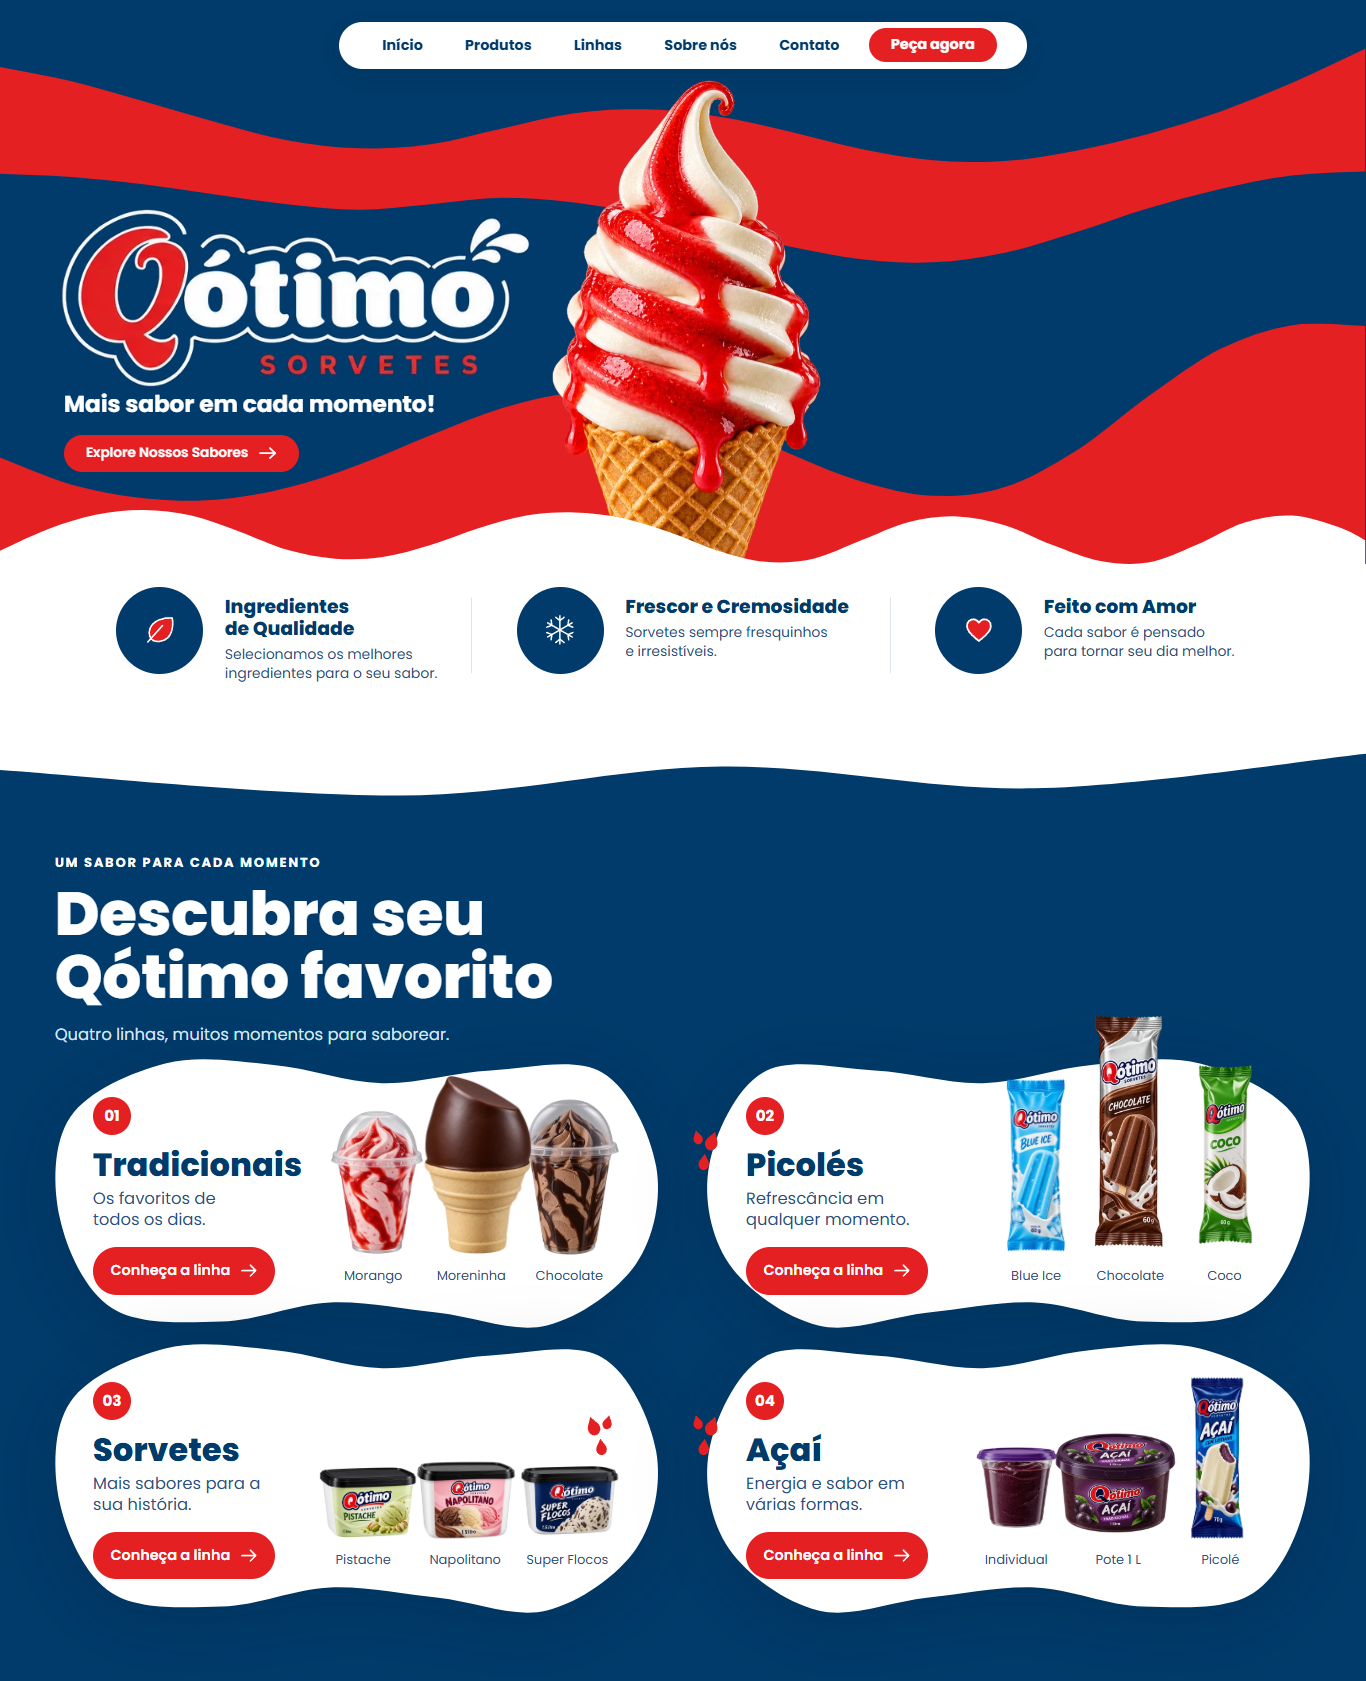
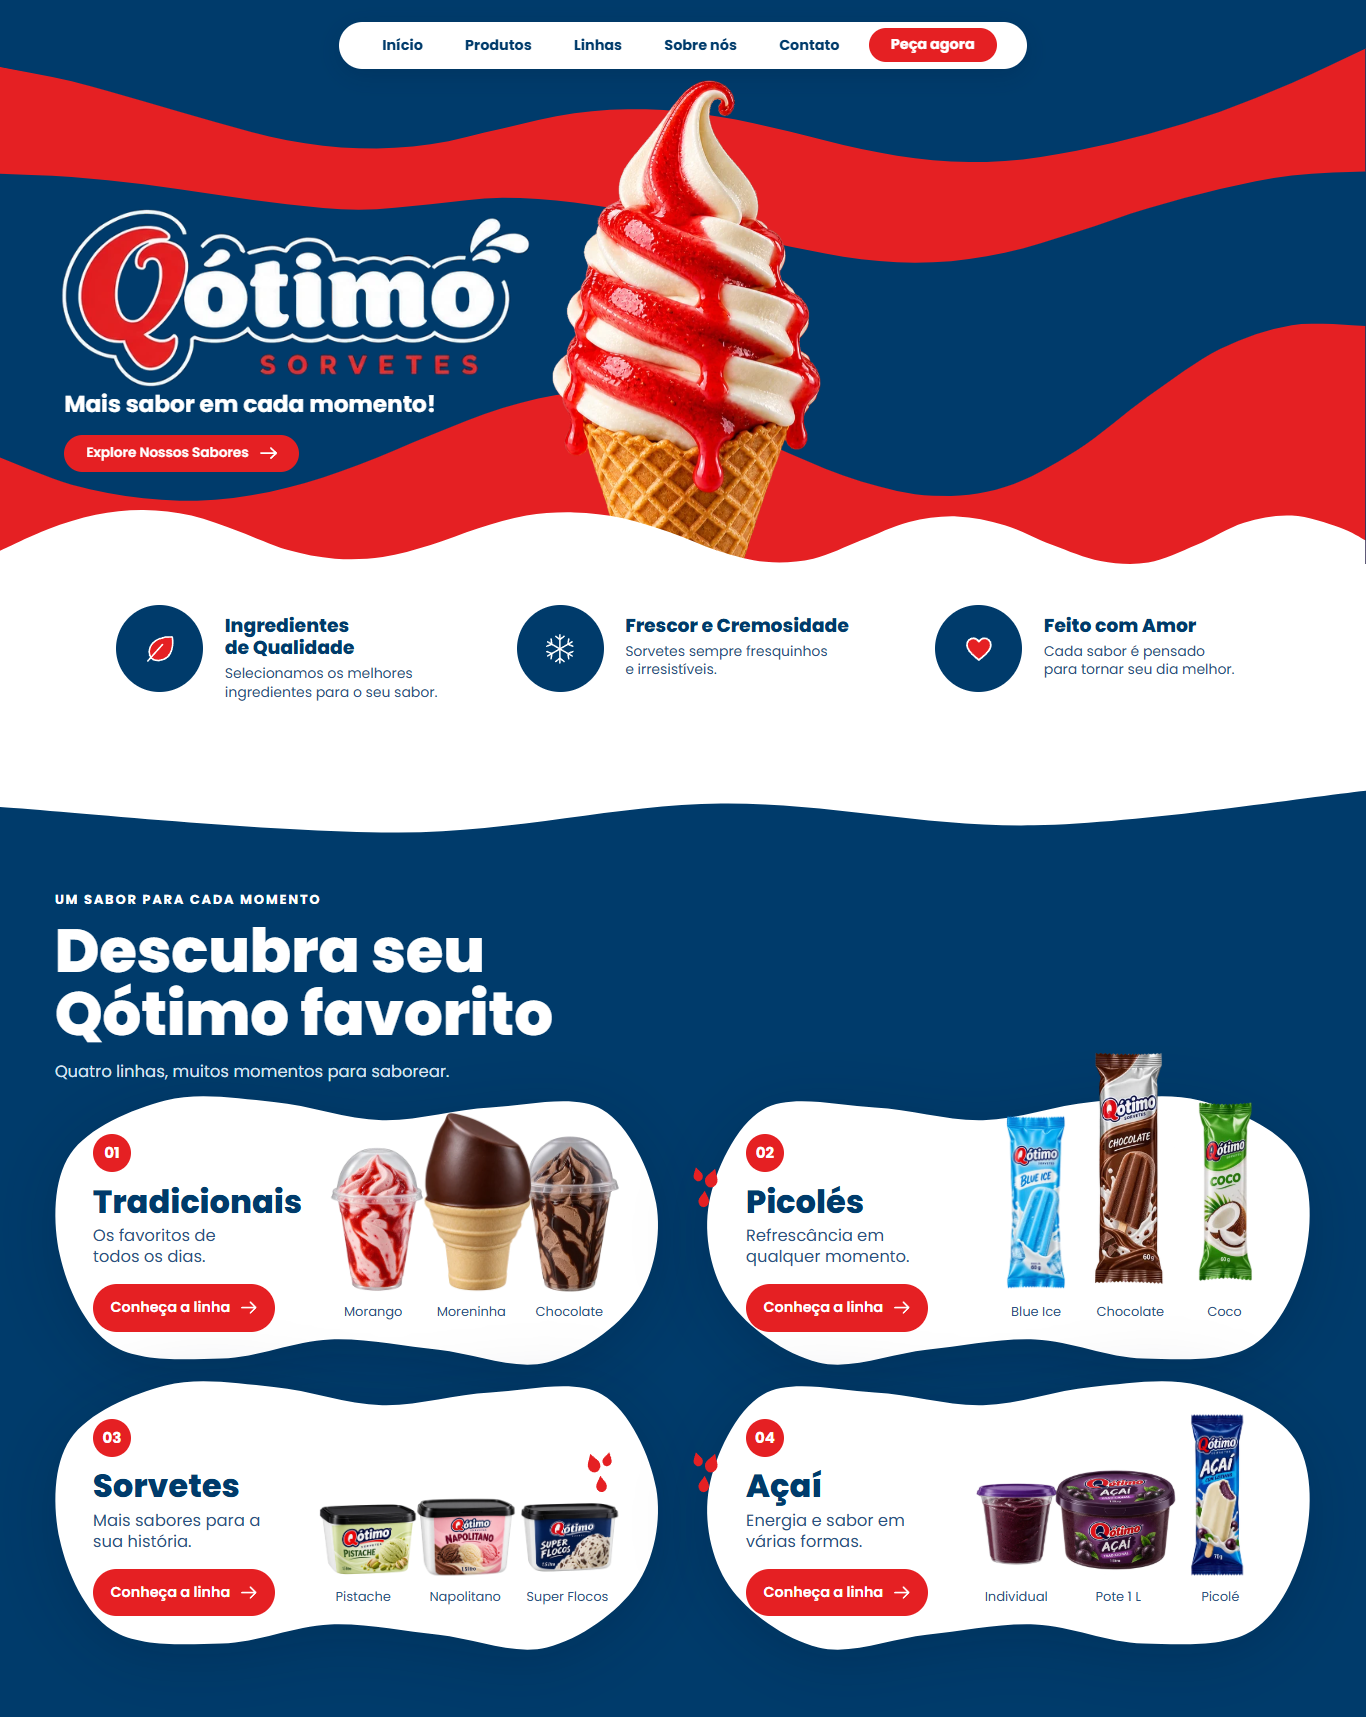
Heroi ocupa a tela, faixa branca maior, sem divisorias
1. Sairam as duas divisorias verticais entre os pilares (desktop e a
   linha horizontal da versao empilhada).

2. O heroi voltou a ocupar a tela inteira (min-height:100svh), mas o
   palco azul continua com os 708u da arte: quem cresce e a faixa
   branca, que e a linha "auto" do grid. Assim a segunda secao nao
   aparece mais enquanto se esta na primeira, a area branca ficou maior
   como pedido, e a composicao azul nao se mexe.

   Os pilares passaram a ser centralizados na faixa, com o bloco travado
   em 152u (= 210u menos os 29u de respiro de cada lado). Com isso o
   icone cai exatamente em 737u quando a faixa tem a altura da arte, e
   quando ela cresce o bloco fica no meio em vez de deixar todo o branco
   embaixo: em 1710x1307 o vazio abaixo dos pilares caiu de 452 para
   225px.

3. Efeito de rolagem: alem da paralaxe das faixas e do cascao, o bloco
   de texto do heroi agora sobe mais rapido que o fundo e esmaece a
   partir de 35% da rolagem. Em scrollY=0 tudo continua zerado, entao o
   heroi parado bate com a arte. Com prefers-reduced-motion nada disso
   roda e nenhum bloco fica invisivel.

Tabela-alvo em 1713x918: 31 de 31 dentro de +-6px (icone em 736,5).
Matriz de 14 resolucoes: MATRIZ OK, e em nenhuma a proxima secao aparece.
Emendas: 60 de 60 combinacoes de zoom e dpr sem a linha vermelha.
Paralaxe: OK. Reduced-motion: OK.

diff --git a/site/styles.css b/site/styles.css
@@ -132,10 +132,13 @@ body>*{--u:min(100cqw / 1713, 100svh / 918, 1.25px)}
 
 /* ----------------------------------------------------------------- heroi */
 
-/* Palco azul com a altura da arte (708u). SEM 100svh: numa janela mais alta
-   que a proporcao da arte a proxima secao aparece abaixo, de proposito. */
+/* O palco azul mantem a altura da arte (708u) e nunca muda. O heroi, esse,
+   ocupa a tela inteira: a sobra vai toda para a faixa branca, que e a linha
+   "auto" do grid. Assim a segunda secao nao aparece enquanto se esta na
+   primeira, e a composicao azul continua nas proporcoes da arte. */
 .hero{
   position:relative;
+  min-height:100svh;
   overflow:hidden;
   display:grid;
   grid-template-rows:calc(708 * var(--u)) auto;   /* palco | base branca */
@@ -216,13 +219,11 @@ body>*{--u:min(100cqw / 1713, 100svh / 918, 1.25px)}
   position:relative;z-index:2;
   margin-block-start:-1px;
   background:var(--branco);
-  /* 210u e a altura da faixa na arte. Travada no desktop; abaixo de
-     1100px ela volta a crescer para caber o texto em duas linhas. */
-  height:calc(210 * var(--u));
-  display:grid;align-items:start;
-  /* 29u do topo poe o icone em 737u, como na arte; os ~60u que sobram
-     embaixo tambem existem na arte (o texto acaba em ~853u de 918u) */
-  padding-block-start:calc(29 * var(--u));
+  /* 210u e o piso (a altura na arte). A faixa cresce com a janela, o que
+     tambem deixa a area branca maior, como pedido. */
+  min-height:calc(210 * var(--u));
+  display:grid;align-items:center;
+  padding-block:calc(29 * var(--u));
 }
 
 .hero__onda{
@@ -241,6 +242,11 @@ body>*{--u:min(100cqw / 1713, 100svh / 918, 1.25px)}
   display:grid;
   grid-template-columns:calc(446 * var(--u)) calc(469 * var(--u)) 1fr;
   column-gap:calc(56 * var(--u));
+  /* 152u = 210u da faixa menos os 29u de respiro em cima e embaixo. Com o
+     bloco nessa altura, centralizar poe o icone exatamente em 737u quando a
+     faixa tem a altura da arte; quando ela cresce, o bloco fica no meio em
+     vez de sobrar todo o branco embaixo. */
+  min-height:calc(152 * var(--u));
 }
 
 .pilar{
@@ -248,14 +254,6 @@ body>*{--u:min(100cqw / 1713, 100svh / 918, 1.25px)}
   display:flex;align-items:flex-start;
   gap:calc(27 * var(--u));
 }
-.pilar:not(:last-child)::after{
-  content:"";position:absolute;
-  inset-inline-end:0;inset-block-start:50%;
-  translate:0 -50%;
-  width:1px;height:calc(95 * var(--u));
-  background:#DCE5EF;
-}
-
 .pilar__icone{
   flex:0 0 auto;
   display:grid;place-items:center;
@@ -492,7 +490,6 @@ body>*{--u:min(100cqw / 1713, 100svh / 918, 1.25px)}
 @media (max-width:1099px){
   /* a faixa deixa de ser travada: o texto do pilar passa a duas linhas */
   .hero__base{
-    height:auto;
     min-height:calc(210 * var(--u));
     padding-block:calc(22 * var(--u));
   }
@@ -636,11 +633,6 @@ body>*{--u:min(100cqw / 1713, 100svh / 918, 1.25px)}
     row-gap:calc(20 * var(--um));
   }
   .pilar{gap:calc(16 * var(--um));align-items:center}
-  .pilar:not(:last-child)::after{
-    inset-inline:0;inset-block-start:auto;inset-block-end:calc(-10 * var(--um));
-    translate:0 0;
-    width:100%;height:1px;
-  }
   .pilar__icone{width:calc(60 * var(--um))}
   .pilar__texto{margin-block-start:0}
   .pilar__texto h2,
@@ -701,7 +693,7 @@ body>*{--u:min(100cqw / 1713, 100svh / 918, 1.25px)}
 }
 
 /* paralaxe: o script escreve o transform, o CSS so prepara a camada */
-.hero__faixa,.hero__cascao img{will-change:transform}
+.hero__faixa,.hero__cascao img,.hero__copy{will-change:transform}
 .tem-motion .reveal.is-visible{opacity:1;transform:none}
 
 @media (prefers-reduced-motion:reduce){

diff --git a/site/script.js b/site/script.js
@@ -105,6 +105,7 @@
   var hero = document.querySelector('.hero');
   var faixas = document.querySelectorAll('.hero__faixa');
   var cascao = document.querySelector('.hero__cascao img');
+  var copy = document.querySelector('.hero__copy');
 
   if (hero && (faixas.length || cascao)) {
     var pendente = false;
@@ -124,6 +125,15 @@
       });
       if (cascao) cascao.style.transform =
         'translate3d(0,' + (p * altura * -0.034).toFixed(1) + 'px,0)';
+
+      /* O texto sobe um pouco mais que o resto e esmaece: da a leitura de
+         que a primeira tela esta saindo, sem esconder nada antes da hora
+         (so comeca a apagar depois de 35% do heroi rolado). */
+      if (copy) {
+        var f = Math.max(0, (p - 0.35) / 0.65);
+        copy.style.transform = 'translate3d(0,' + (p * altura * -0.085).toFixed(1) + 'px,0)';
+        copy.style.opacity = (1 - f * 0.85).toFixed(3);
+      }
     };
 
     var aoRolar = function () {
